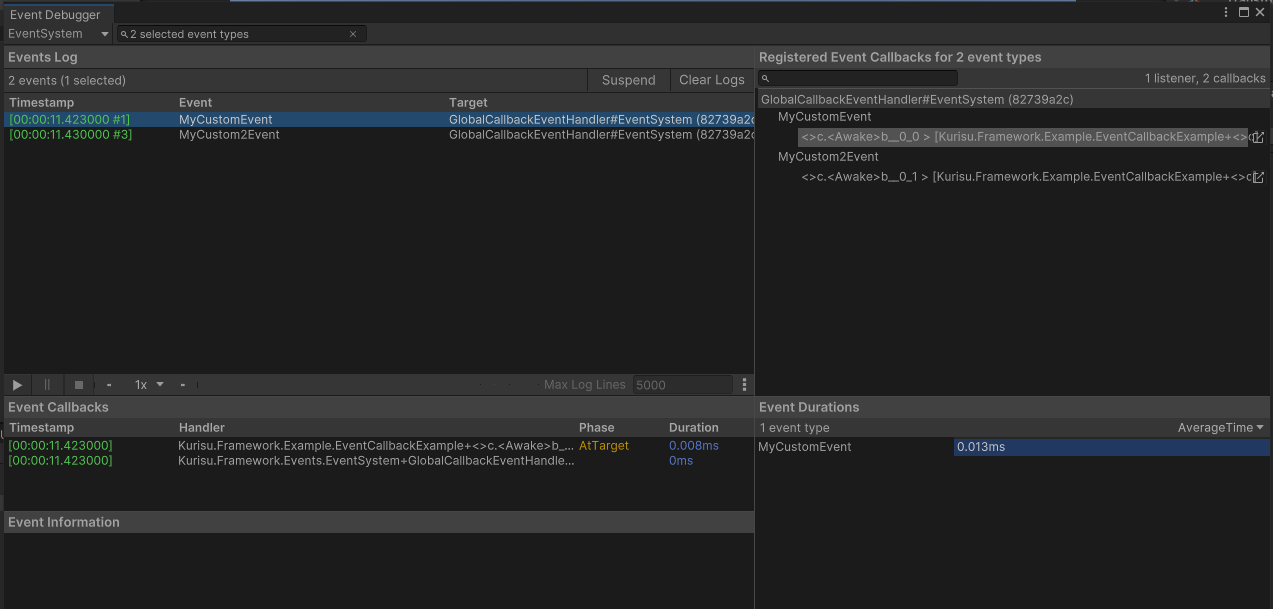
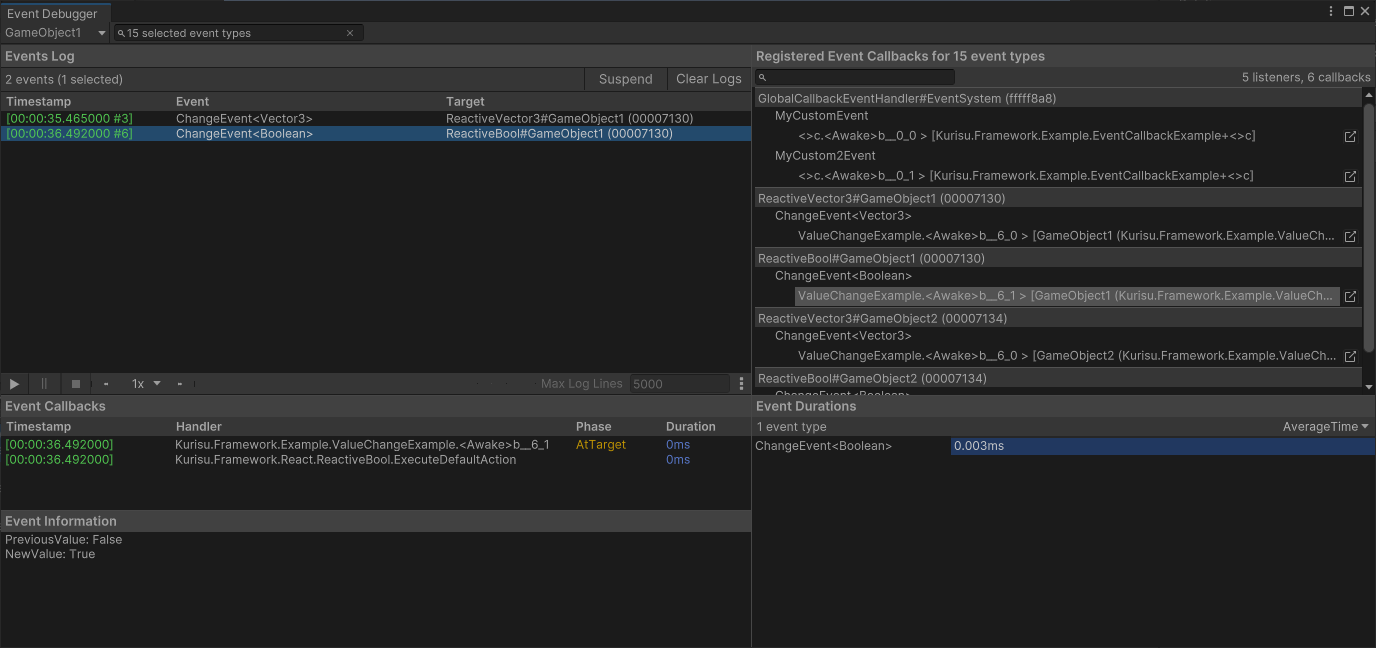
Throw InvalidConstructException when construct time is wrong
Add custom MonoEventCoordinator  for ReactiveValue.
Fix value change event previewsValue not send bug.

Changed region(s): [[0.0, 0.0, 1.0, 0.8736], [0.9497, 0.0, 1.0, 0.0312]]

diff --git a/Runtime/Core/React/ReactiveValue.cs b/Runtime/Core/React/ReactiveValue.cs
@@ -3,19 +3,24 @@ using Newtonsoft.Json;
 using UnityEngine;
 using Object = UnityEngine.Object;
 using JsonConverterAttribute = Newtonsoft.Json.JsonConverterAttribute;
+using System;
 namespace Kurisu.Framework.React
 {
     public interface IReadonlyReactiveValue<T>
     {
         T Value { get; }
-        void UnregisterCallback(EventCallback<ChangeEvent<T>> onValueChanged);
-        void RegisterCallback(EventCallback<ChangeEvent<T>> onValueChanged);
+        void UnregisterValueChangeCallback(EventCallback<ChangeEvent<T>> onValueChanged);
+        void RegisterValueChangeCallback(EventCallback<ChangeEvent<T>> onValueChanged);
+    }
+    public class InvalidConstructException : Exception
+    {
+        public InvalidConstructException(string message) : base(message) { }
     }
     public abstract class ReactiveValue<T> : CallbackEventHandler, INotifyValueChanged<T>, IReadonlyReactiveValue<T>, IBehaviourScope
     {
         protected T _value;
         /// <summary>
-        /// Since event system are initialized by MonoBehaviour lifetime scope, ReactiveValue should also be constructed in Awake() or Start()
+        /// Since <see cref="MonoEventCoordinator"/> are initialized by MonoBehaviour lifetime scope, ReactiveValue should also be constructed in Awake() or Start()
         /// </summary>
         private void ConstructorSafeCheck()
         {
@@ -26,7 +31,7 @@ namespace Kurisu.Framework.React
             }
             catch
             {
-                throw;
+                throw new InvalidConstructException("ReactiveValue should be constructed in Awake() or Start()");
             }
 #endif
         }
@@ -38,7 +43,7 @@ namespace Kurisu.Framework.React
         public ReactiveValue(T initValue, Behaviour attachedBehaviour)
         {
             ConstructorSafeCheck();
-            AttachedBehaviour = attachedBehaviour;
+            AttachBehaviour(attachedBehaviour);
             _value = initValue;
         }
         /// <summary>
@@ -49,7 +54,7 @@ namespace Kurisu.Framework.React
         public ReactiveValue(T initValue)
         {
             ConstructorSafeCheck();
-            AttachedBehaviour = EventSystem.Instance;
+            AttachBehaviour(EventSystem.Instance);
             _value = initValue;
         }
         /// <summary>
@@ -58,7 +63,7 @@ namespace Kurisu.Framework.React
         public ReactiveValue()
         {
             ConstructorSafeCheck();
-            AttachedBehaviour = EventSystem.Instance;
+            AttachBehaviour(EventSystem.Instance);
             _value = default;
         }
         public virtual T Value
@@ -68,14 +73,28 @@ namespace Kurisu.Framework.React
             {
                 if (!value.Equals(_value))
                 {
-                    T previewsValue = value;
+                    T previewsValue = _value;
                     _value = value;
                     SendEvent(ChangeEvent<T>.GetPooled(previewsValue, value));
                 }
             }
         }
         [JsonIgnore]
-        public Behaviour AttachedBehaviour { get; protected set; }
+        public Behaviour AttachedBehaviour { get; private set; }
+        private MonoEventCoordinator attachedCoordinator;
+        [JsonIgnore]
+        public MonoEventCoordinator AttachedCoordinator
+        {
+            get
+            {
+                if (attachedCoordinator == null) return attachedCoordinator = EventSystem.Instance;
+                return attachedCoordinator;
+            }
+            set
+            {
+                attachedCoordinator = value;
+            }
+        }
         /// <summary>
         /// Whether to call <see cref="EventBase.StopPropagation"/> when attached behaviour is inactive or disable, default is true.
         /// </summary>
@@ -85,16 +104,14 @@ namespace Kurisu.Framework.React
         {
             e.Target = this;
             if (StopPropagationWhenDisabled && !AttachedBehaviour.isActiveAndEnabled) e.StopPropagation();
-            EventSystem.Instance.Dispatcher.Dispatch(e, EventSystem.Instance, DispatchMode.Default);
-            EventSystem.Instance.Refresh();
+            AttachedCoordinator.Dispatch(e, DispatchMode.Default);
             e.Dispose();
         }
         public override void SendEvent(EventBase e, DispatchMode dispatchMode)
         {
             e.Target = this;
             if (StopPropagationWhenDisabled && !AttachedBehaviour.isActiveAndEnabled) e.StopPropagation();
-            EventSystem.Instance.Dispatcher.Dispatch(e, EventSystem.Instance, DispatchMode.Default);
-            EventSystem.Instance.Refresh();
+            AttachedCoordinator.Dispatch(e, dispatchMode);
             e.Dispose();
         }
 
@@ -103,17 +120,22 @@ namespace Kurisu.Framework.React
             _value = newValue;
         }
 
-        public void UnregisterCallback(EventCallback<ChangeEvent<T>> onValueChanged)
+        public void UnregisterValueChangeCallback(EventCallback<ChangeEvent<T>> onValueChanged)
         {
-            base.UnregisterCallback(onValueChanged);
+            UnregisterCallback(onValueChanged);
         }
-        public void RegisterCallback(EventCallback<ChangeEvent<T>> onValueChanged)
+        public void RegisterValueChangeCallback(EventCallback<ChangeEvent<T>> onValueChanged)
         {
-            base.RegisterCallback(onValueChanged);
+            RegisterCallback(onValueChanged);
         }
+        /// <summary>
+        /// Attach this reactive value to a behaviour
+        /// </summary>
+        /// <param name="behaviour"></param>
         public void AttachBehaviour(Behaviour behaviour)
         {
             AttachedBehaviour = behaviour != null ? behaviour : EventSystem.Instance;
+            AttachedCoordinator = behaviour as MonoEventCoordinator;
         }
     }
     public class ReactiveBool : ReactiveValue<bool>
@@ -252,6 +274,12 @@ namespace Kurisu.Framework.React
     }
     public class ReactiveColor32 : ReactiveValue<Color32>
     {
+        [JsonConverter(typeof(Color32Converter))]
+        public override Color32 Value
+        {
+            get => base.Value;
+            set => base.Value = value;
+        }
         public ReactiveColor32() : base() { }
         public ReactiveColor32(Color32 initValue, Behaviour attachedBehaviour) : base(initValue, attachedBehaviour)
         {
@@ -262,6 +290,12 @@ namespace Kurisu.Framework.React
     }
     public class ReactiveObject : ReactiveValue<Object>
     {
+        [JsonIgnore]
+        public override Object Value
+        {
+            get => base.Value;
+            set => base.Value = value;
+        }
         public ReactiveObject() : base() { }
         public ReactiveObject(Object initValue, Behaviour attachedBehaviour) : base(initValue, attachedBehaviour)
         {

diff --git a/Runtime/Core/Events/Models/EventDispatcher.cs b/Runtime/Core/Events/Models/EventDispatcher.cs
@@ -62,12 +62,30 @@ namespace Kurisu.Framework.Events
         }
     }
     /// <summary>
-    /// MonoBehaviour based EventCoordinator that can be tracked by debugger
+    /// MonoBehaviour based EventCoordinator that can be enabled and disabled, and can be tracked by the debugger
     /// </summary>
     public abstract class MonoEventCoordinator : MonoBehaviour, IEventCoordinator
     {
-        public abstract EventDispatcher Dispatcher { get; }
+        public virtual EventDispatcher Dispatcher { get; protected set; }
         private readonly HashSet<ICoordinatorDebugger> m_Debuggers = new();
+        protected virtual void Awake()
+        {
+            Dispatcher = EventDispatcher.CreateDefault();
+        }
+        protected virtual void Update()
+        {
+            Dispatcher.PushDispatcherContext();
+            Dispatcher.PopDispatcherContext();
+        }
+        protected virtual void OnDestroy()
+        {
+            DetachAllDebuggers();
+        }
+        public void Dispatch(EventBase evt, DispatchMode dispatchMode)
+        {
+            Dispatcher.Dispatch(evt, this, dispatchMode);
+            Refresh();
+        }
         internal void AttachDebugger(ICoordinatorDebugger debugger)
         {
             if (debugger != null && m_Debuggers.Add(debugger))

diff --git a/Runtime/Core/React/ReactExtensions.cs b/Runtime/Core/React/ReactExtensions.cs
@@ -1,5 +1,4 @@
 using Kurisu.Framework.Events;
-using UnityEngine;
 namespace Kurisu.Framework.React
 {
     public static class ReactExtensions
@@ -9,10 +8,10 @@ namespace Kurisu.Framework.React
             handler.RegisterCallback(callback);
             return new UnRegisterCallBackHandle(() => handler.UnregisterCallback(callback));
         }
-        public static IUnRegisterHandle RegisterCallbackWithUnRegister<T>(this IReadonlyReactiveValue<T> handler, EventCallback<ChangeEvent<T>> callback)
+        public static IUnRegisterHandle RegisterValueChangeCallbackWithUnRegister<T>(this IReadonlyReactiveValue<T> handler, EventCallback<ChangeEvent<T>> callback)
         {
-            handler.RegisterCallback(callback);
-            return new UnRegisterCallBackHandle(() => handler.UnregisterCallback(callback));
+            handler.RegisterValueChangeCallback(callback);
+            return new UnRegisterCallBackHandle(() => handler.UnregisterValueChangeCallback(callback));
         }
     }
 }

diff --git a/Runtime/Core/Events/EventSystem.cs b/Runtime/Core/Events/EventSystem.cs
@@ -26,8 +26,6 @@ namespace Kurisu.Framework.Events
         }
         private static EventSystem instance;
         public static EventSystem Instance => instance != null ? instance : GetInstance();
-        private EventDispatcher dispatcher;
-        public sealed override EventDispatcher Dispatcher { get => dispatcher; }
         public CallbackEventHandler EventHandler { get; private set; }
         private static EventSystem GetInstance()
         {
@@ -49,15 +47,10 @@ namespace Kurisu.Framework.Events
             }
             return instance;
         }
-        private void Awake()
+        protected override void Awake()
         {
-            dispatcher = EventDispatcher.CreateDefault();
+            base.Awake();
             EventHandler = new GlobalCallbackEventHandler(this);
-        }
-        private void Update()
-        {
-            dispatcher.PushDispatcherContext();
-            dispatcher.PopDispatcherContext();
         }
     }
 }

diff --git a/Runtime/Core/React/Color32Converter.cs b/Runtime/Core/React/Color32Converter.cs
@@ -1,0 +1,26 @@
+using System;
+using Newtonsoft.Json;
+using UnityEngine;
+namespace Kurisu.Framework.React
+{
+    /// <summary>
+    /// Use built in serialization for color type
+    /// </summary>
+    public class Color32Converter : JsonConverter
+    {
+        public override bool CanRead => true;
+        public override bool CanWrite => true;
+        public override bool CanConvert(Type objectType)
+        {
+            return typeof(Color32) == objectType;
+        }
+        public override object ReadJson(JsonReader reader, Type objectType, object existingValue, JsonSerializer serializer)
+        {
+            return JsonUtility.FromJson<Color32>(reader.ReadAsString());
+        }
+        public override void WriteJson(JsonWriter writer, object value, JsonSerializer serializer)
+        {
+            serializer.Serialize(writer, JsonUtility.ToJson(value));
+        }
+    }
+}

diff --git a/Docs/Events.md b/Docs/Events.md
@@ -1,0 +1,100 @@
+# Events
+
+Support dynamic and contextual event handling, ported from `UnityEngine.UIElements`.
+
+### Event System
+
+Event System is an implementation for global event purpose.
+
+```C#
+// Interface for your custom event
+// Debugger will notify it and group them
+public interface ICustomEvent { }
+
+public class MyCustomEvent : EventBase<MyCustomEvent>, ICustomEvent
+{
+    public string Message { get; private set; }
+    protected override void Init()
+    {
+        base.Init();
+        Message = string.Empty;
+    }
+    public static MyCustomEvent GetPooled(string message)
+    {
+        var ce = GetPooled();
+        ce.Message = message;
+        return ce;
+    }
+}
+
+public class MyCustom2Event : EventBase<MyCustom2Event>, ICustomEvent
+{
+    public string Message { get; private set; }
+    protected override void Init()
+    {
+        base.Init();
+        Message = string.Empty;
+    }
+    public static MyCustom2Event GetPooled(string message)
+    {
+        var ce = GetPooled();
+        ce.Message = message;
+        return ce;
+    }
+}
+
+public class EventSystemExample : MonoBehaviour
+{
+    private void Awake()
+    {
+        EventSystem.Instance.EventHandler.RegisterCallbackWithUnRegister<MyCustomEvent>((e) =>
+        {
+            Debug.Log(e.Message);
+            using var ce2 = MyCustom2Event.GetPooled("World");
+            EventSystem.Instance.EventHandler.SendEvent(ce2);
+        }).AttachUnRegister(gameObject);
+        EventSystem.Instance.EventHandler.RegisterCallbackWithUnRegister<MyCustom2Event>((e) =>
+        {
+            Debug.Log(e.Message);
+        }).AttachUnRegister(gameObject);
+    }
+    private void Start()
+    {
+        using var ce1 = MyCustomEvent.GetPooled("Hello");
+        EventSystem.Instance.EventHandler.SendEvent(ce1);
+    }
+}
+```
+### Debugger
+
+Events can be tracked in a debugger `Windows/AkiFramework/Event Debugger`.
+
+![Debugger](./Images/debugger.png)
+
+
+### React
+
+```C#
+public class ReactiveValueExample : MonoBehaviour
+{
+    private ReactiveVector3 reactiveVector;
+    private ReactiveBool reactiveBool;
+    private void Awake()
+    {
+        reactiveVector = new(default);
+        reactiveBool = new(default);
+        reactiveVector.RegisterValueChangeCallbackWithUnRegister(e => Debug.Log($"Vector: {e.PreviousValue} => {e.NewValue}", gameObject))
+                    .AttachUnRegister(gameObject);
+        reactiveBool.RegisterValueChangeCallbackWithUnRegister(e => Debug.Log($"Bool: {e.PreviousValue} => {e.NewValue}", gameObject))
+                    .AttachUnRegister(gameObject);
+    }
+    private void Start()
+    {        
+        // Will send event
+        reactiveVector.Value += Vector3.one;
+        reactiveBool.Value = !reactiveBool.Value;
+        // Not send event
+        reactiveBool.SetValueWithoutNotify(false);
+    }
+}
+```

diff --git a/README.md b/README.md
@@ -6,7 +6,7 @@ I supposed these code are useful but also not-must-be-included, which is my pers
 
 ## Reference
 
-> [UIElements Event System](https://github.com/Unity-Technologies/UnityCsReference/tree/2022.3/ModuleOverrides/com.unity.ui/Core/Events)
+> [UIElements Events](https://github.com/Unity-Technologies/UnityCsReference/tree/2022.3/ModuleOverrides/com.unity.ui/Core/Events)
 >
 > [Unity Timer](https://github.com/akbiggs/UnityTimer)
 >
